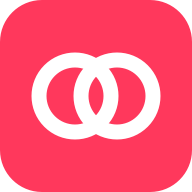
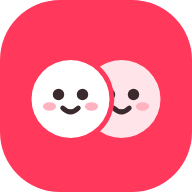
ロゴを丸みのある可愛らしい絵柄に変更
- 丸みの強い角丸に、点目と笑顔の2つのおもちが寄り添うマーク
- 画面内のロゴは favicon.svg を共用し、絵柄のずれを防ぐ
- Service Worker のキャッシュ名を更新して旧アイコンを破棄

diff --git a/src/components/Logo.tsx b/src/components/Logo.tsx
@@ -1,14 +1,8 @@
-/** おあいこのロゴ (2つの輪 = お互いさま・貸し借りなし) と名前 */
+/** おあいこのロゴ (寄り添う2つのおもち = お互いさま・貸し借りなし) と名前。マークは favicon.svg を共用 */
 export function Logo() {
   return (
     <span className="brand">
-      <svg viewBox="0 0 64 64" width="22" height="22" aria-hidden="true">
-        <rect width="64" height="64" rx="14" fill="var(--accent)" />
-        <g fill="none" stroke="#fff" strokeWidth="5">
-          <circle cx="25" cy="32" r="12" />
-          <circle cx="39" cy="32" r="12" />
-        </g>
-      </svg>
+      <img src="/favicon.svg" width="24" height="24" alt="" />
       おあいこ
     </span>
   )

diff --git a/public/sw.js b/public/sw.js
@@ -1,6 +1,6 @@
 // tiede の Service Worker。画面 (HTML/JS/CSS/画像) を端末に保存し、圏外でも起動できるようにする。
 // データ (Firestore) は Firebase SDK が IndexedDB に保持するので、ここでは扱わない。
-const CACHE = 'oaiko-v2'
+const CACHE = 'oaiko-v3'
 
 // 初回訪問ではページの読み込みが SW の起動より先に終わり、JS/CSS が保存されない。
 // ページから読み込み済みファイルの一覧を受け取って保存し、次回から圏外でも起動できるようにする

diff --git a/src/index.css b/src/index.css
@@ -1294,7 +1294,6 @@ body.resizing .layout {
   letter-spacing: 0.02em;
 }
 
-.brand svg {
+.brand img {
   flex-shrink: 0;
-  border-radius: 5px;
 }

diff --git a/docs/design/DESIGN.md b/docs/design/DESIGN.md
@@ -57,8 +57,9 @@
 
 ## ロゴ
 
-- 名前「おあいこ」= お互いさま・貸し借りなし。マークは Rausch の角丸四角 (角丸 14/64) に白い線の2つの輪 (半径12・線幅5、中心間隔14、viewBox 64) が重なる形。
-- 実体: `public/favicon.svg`、PWA アイコン (`public/icon-*.png`, `apple-touch-icon.png`。maskable は輪を78%に縮めて安全領域に収める)、画面内は `src/components/Logo.tsx` (マーク22px + 名前、太字)。
+- 名前「おあいこ」= お互いさま・貸し借りなし。マークは丸みの強い Rausch の角丸四角 (角丸 20/64) に、寄り添う2つの丸い「おもち」(白と淡いピンク #ffe4ea、半径13) が並ぶ形。それぞれ点の目・小さな笑顔・頬の赤み (#ffb3c1)。手前の白いおもちの縁を Rausch で抜いて重なりを表す。
+- 元データは `public/favicon.svg` (viewBox 64)。PWA アイコン (`public/icon-*.png`、`apple-touch-icon.png`) はこの SVG をブラウザで描画して書き出す。maskable は背景を全面にし、絵柄を80%に縮めて安全領域に収める。
+- 画面内は `src/components/Logo.tsx` (favicon.svg を24pxで表示 + 名前、太字)。
 
 ## アイコン
 

diff --git a/CLAUDE.md b/CLAUDE.md
@@ -49,4 +49,4 @@
 - Firebase プロジェクト `tiede-8eae4` (Firestore: asia-northeast1, Standard)。ルールはデプロイ・検証済み。Hosting 公開済み (https://tiede-8eae4.web.app、`firebase deploy --only hosting`)
 - App Check: reCAPTCHA v3 (Enterprise は課金アカウントが必要なため不採用)。実機ブラウザで検証済み (自動テストのヘッドレス Chromium はボット判定で通らない)。AI Logic は強制済み、Firestore は未強制 (コンソールで検証済みリクエストの割合を確認してから強制する)。開発時は `.env.local` の `VITE_APPCHECK_DEBUG_TOKEN` (コンソール登録済み) を使う
 - 候補: 実機 iPhone で PWA (ホーム画面追加・圏外起動)・Safari の表示を確認する
-- Service Worker のキャッシュ名は固定 (`oaiko-v2`)。古いビルドのファイルが溜まるため、大きな変更時は名前を上げる
+- Service Worker のキャッシュ名は固定 (`oaiko-v3`)。古いビルドのファイルが溜まるため、大きな変更時は名前を上げる
